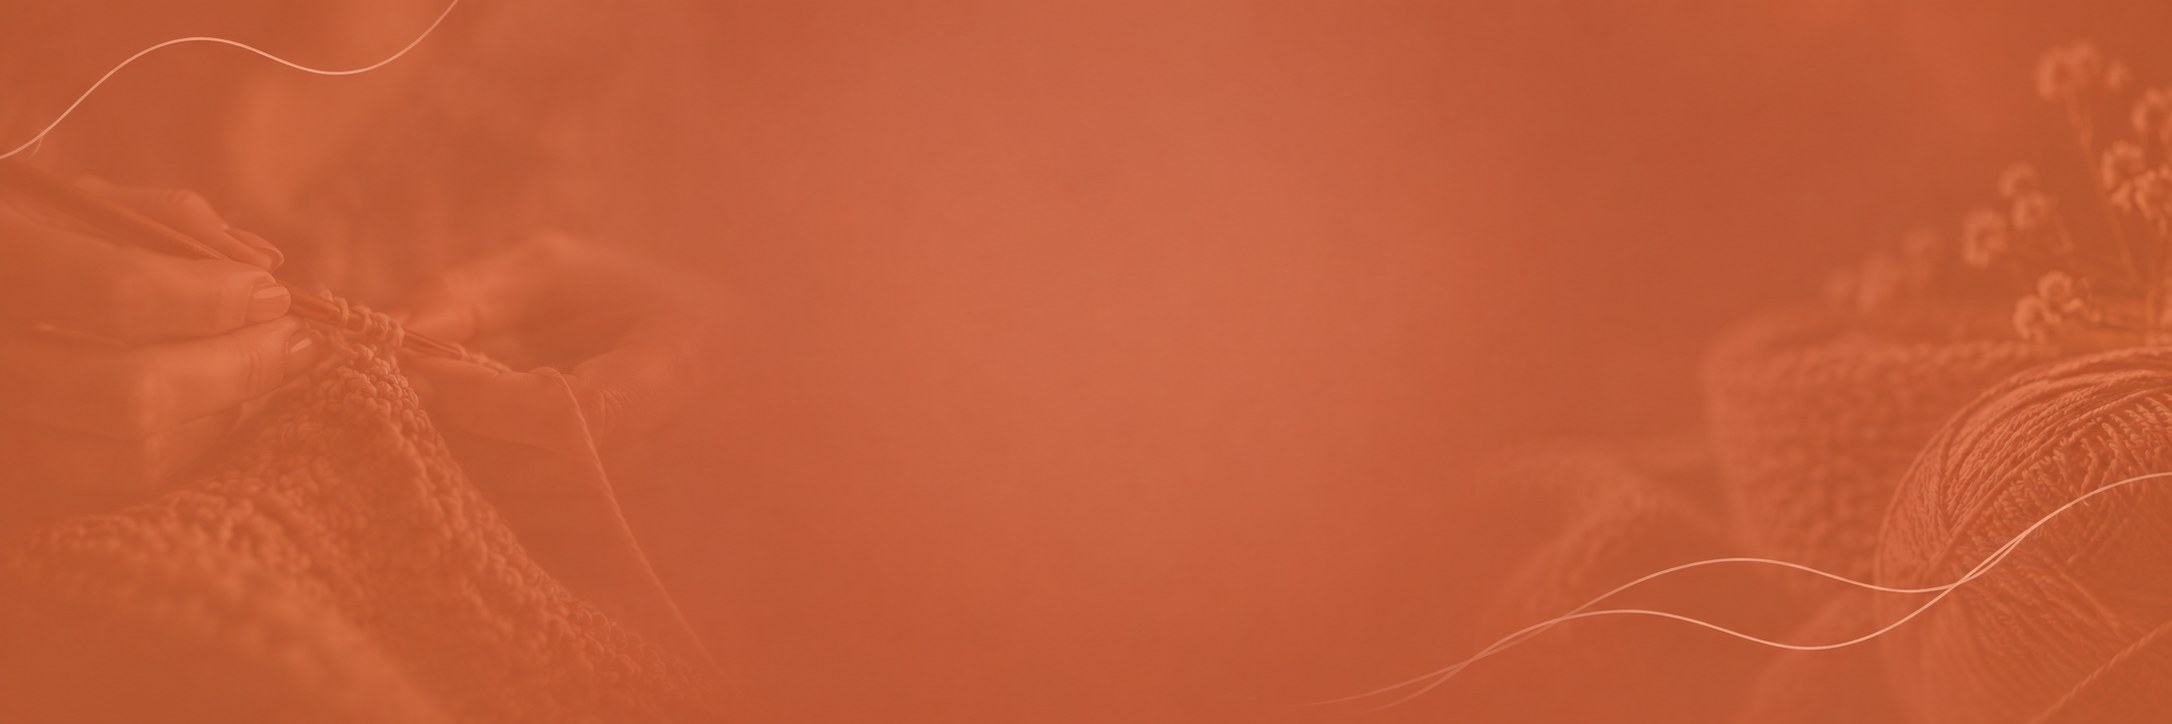
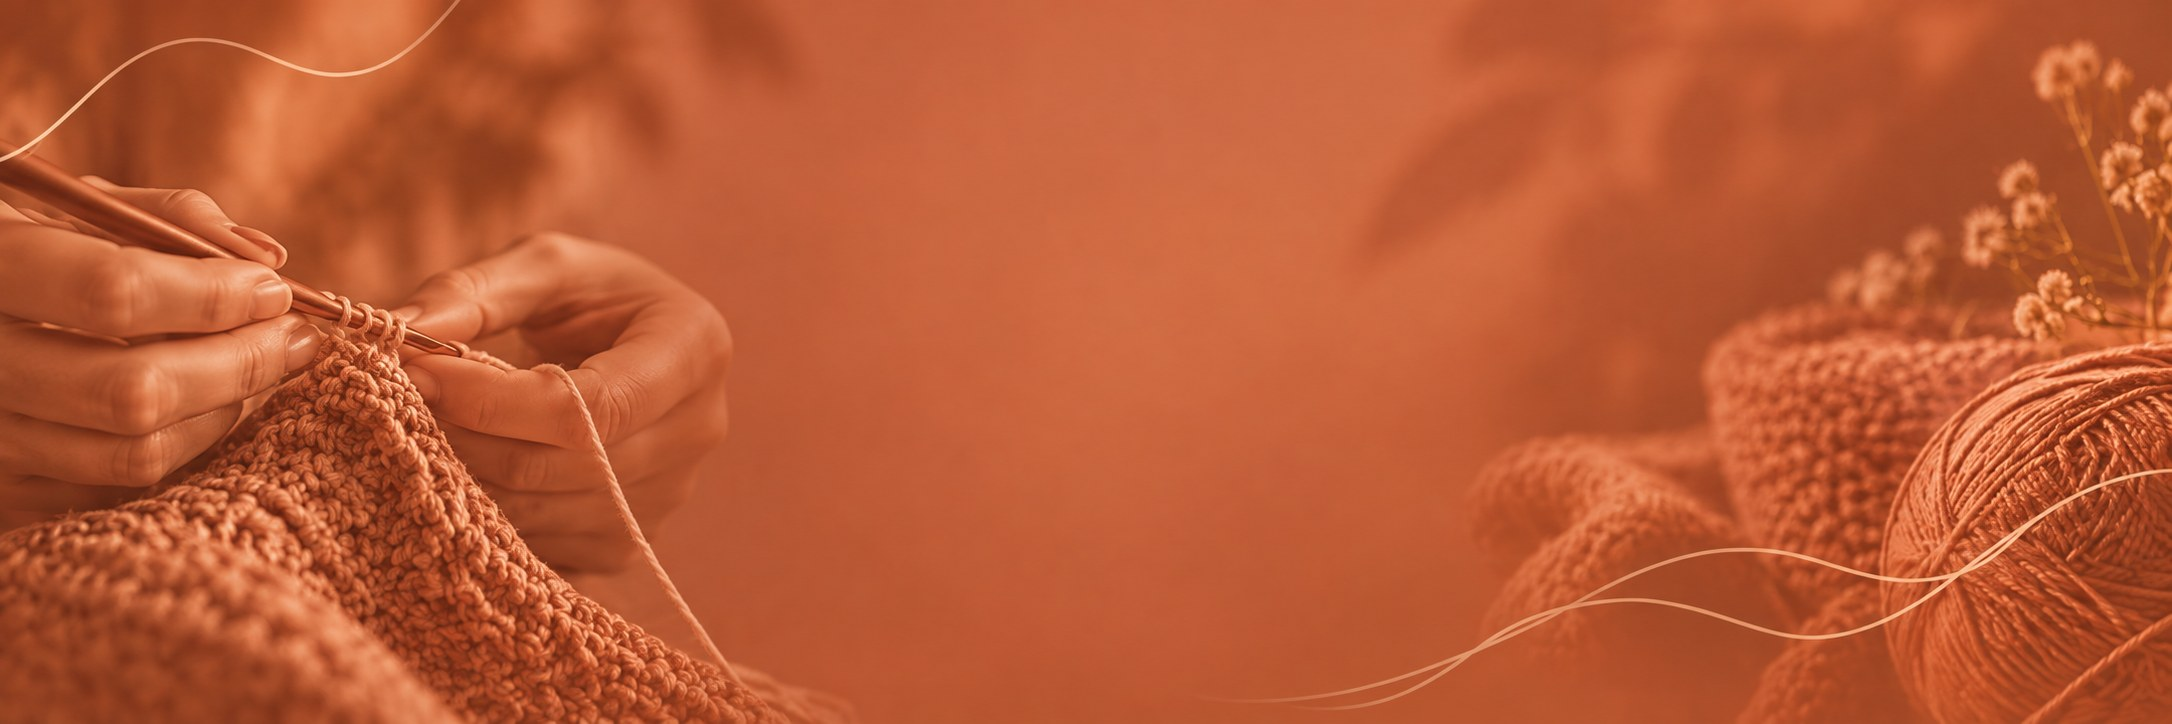
feat: mensagem pré-formatada no WhatsApp do rodapé e nova foto de fundo do CTA
Link do WhatsApp agora abre a conversa já com "Oi, vi o AteliFácil e
gostaria de mais informações." Troca a foto de fundo da seção de CTA
final por uma versão mais destacada da mesma cena.

diff --git a/app/(marketing)/marketing-home.tsx b/app/(marketing)/marketing-home.tsx
@@ -533,7 +533,7 @@ export function MarketingHome() {
         <span>
           Desenvolvido por FMinds — Suporte:{" "}
           <Link
-            href="https://wa.me/5543991434124"
+            href="https://wa.me/5543991434124?text=Oi%2C%20vi%20o%20AteliF%C3%A1cil%20e%20gostaria%20de%20mais%20informa%C3%A7%C3%B5es."
             target="_blank"
             rel="noopener noreferrer"
             className="underline underline-offset-4 outline-none transition-colors hover:text-[var(--craft-ink)] focus-visible:text-[var(--craft-ink)]"
